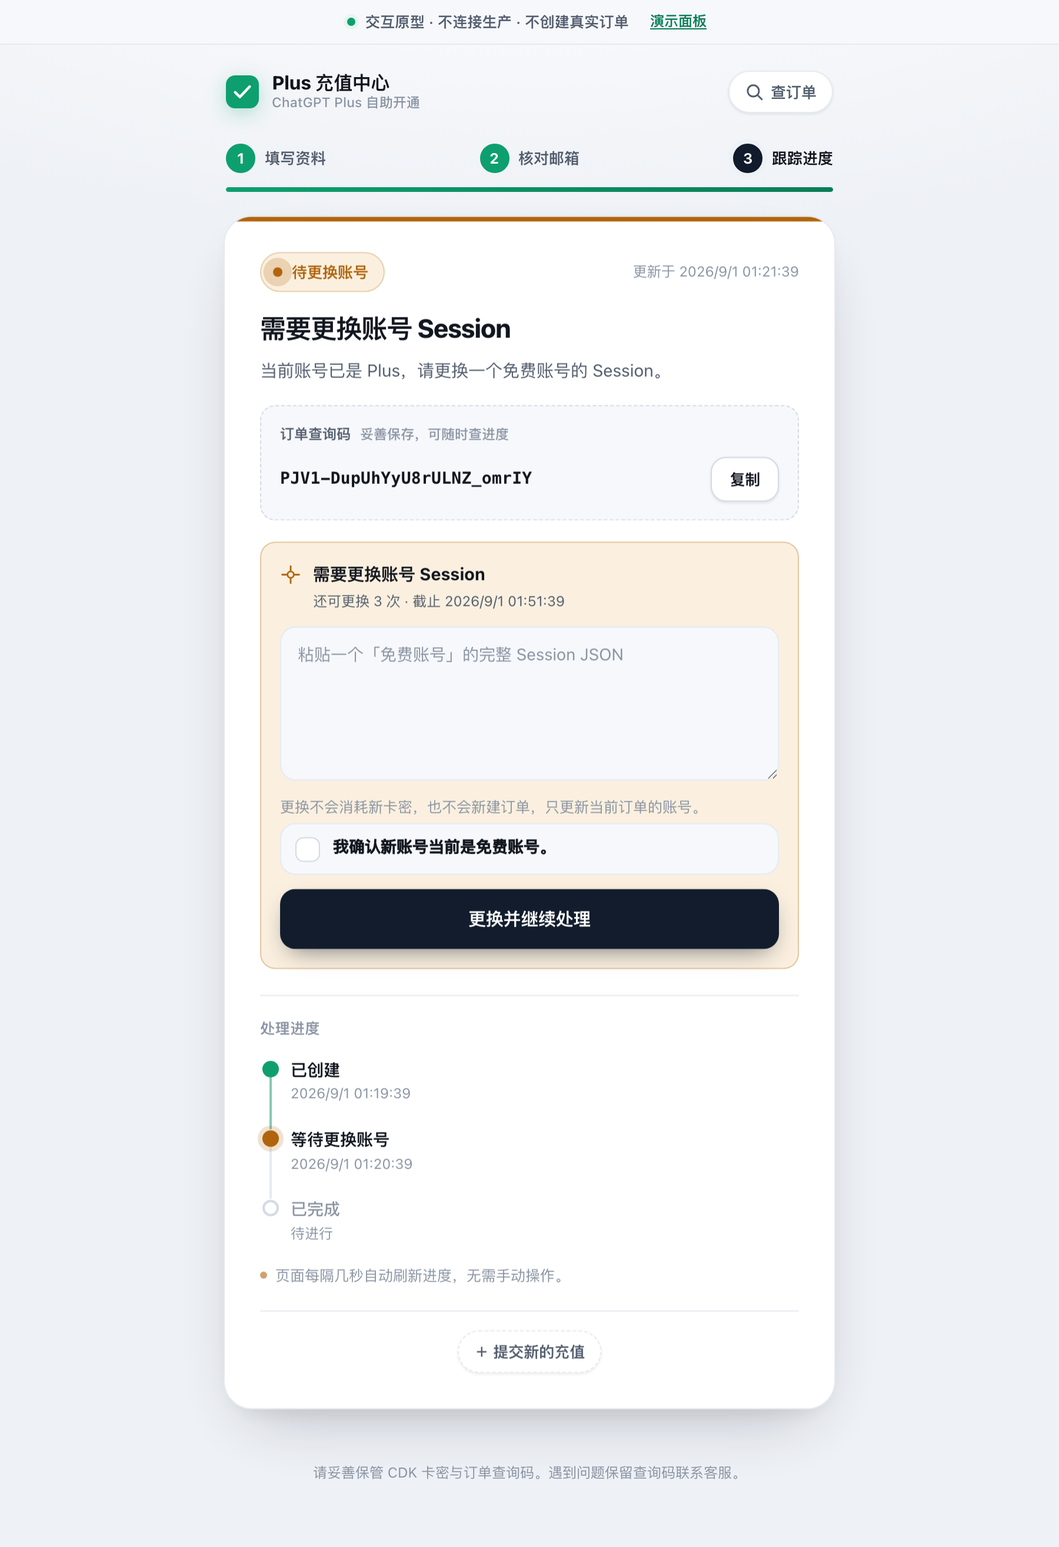
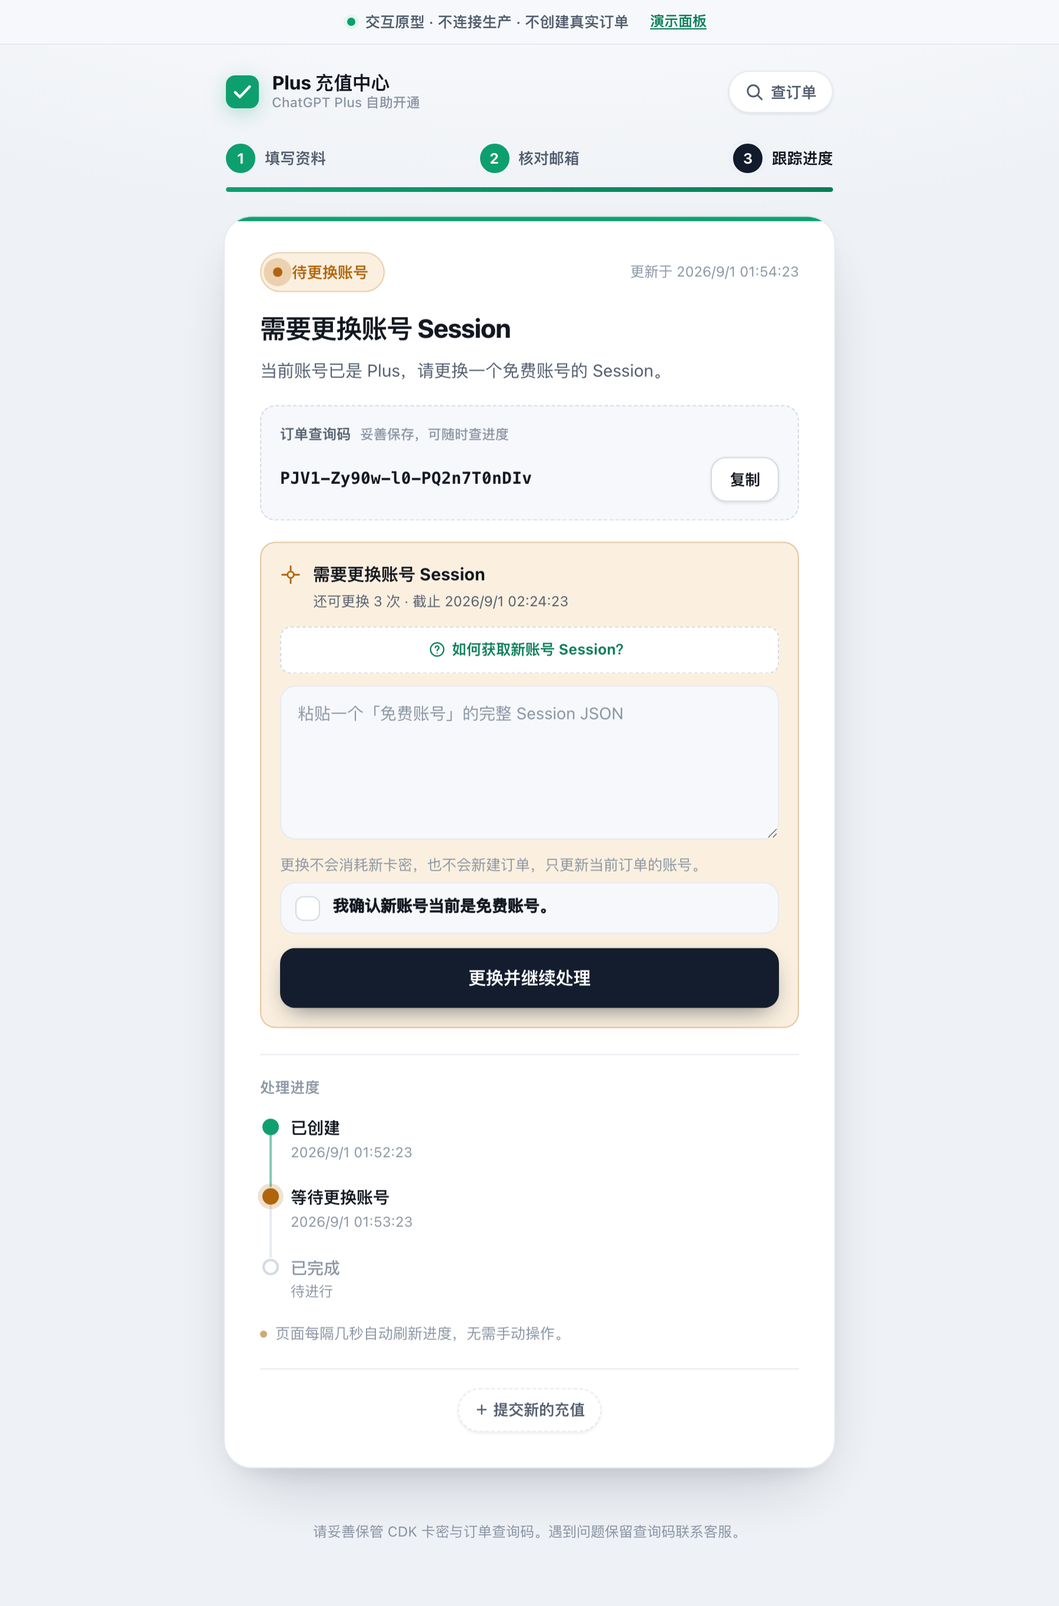
docs: add session howto guide and subscription-check link to recharge redesign
按拍板结论增补客户充值页设计（仍不接后端、不接生产）：
- 新增 Session 获取教程弹层：输入页/更换处「如何获取 Session？」入口，含分步引导 + 两个官方外链（chatgpt.com、chatgpt.com/api/auth/session）+ 脱敏示例 + 安全提示
- 成功页新增「去 ChatGPT 官网确认订阅」轻量外链；否定自建订阅查询后端
- 落定拍板：邮箱不打码/卡密打码、先 Light 保留 Dark、不加 preview 接口、保留新充值入口、轮询落地改回生产值
- 同步 README/DECISIONS/HANDOFF 与桌面/移动截图（新增 08-guide，共 18 张）
- 外链均为 ChatGPT 官方域名，带 target=_blank rel=noopener noreferrer

diff --git a/docs/design/customer-recharge-redesign/prototype/index.html b/docs/design/customer-recharge-redesign/prototype/index.html
@@ -72,12 +72,15 @@
             <div class="field" id="field-session">
               <div class="field__labelrow">
                 <label for="session">账号 Session</label>
-                <span class="field__tag">仅本次开通使用</span>
+                <button type="button" class="help-link" id="session-help-open">
+                  <svg viewBox="0 0 20 20" width="15" height="15" aria-hidden="true"><circle cx="10" cy="10" r="7.5" fill="none" stroke="currentColor" stroke-width="1.5"/><path d="M8 8a2 2 0 113 1.7c-.6.4-1 .8-1 1.6" fill="none" stroke="currentColor" stroke-width="1.5" stroke-linecap="round"/><circle cx="10" cy="14" r=".7" fill="currentColor"/></svg>
+                  如何获取 Session？
+                </button>
               </div>
               <textarea id="session" name="session" rows="7" autocomplete="off"
                         autocapitalize="off" spellcheck="false"
                         placeholder="粘贴完整的 Session JSON（{ &quot;user&quot;: …, &quot;accessToken&quot;: … }）" required></textarea>
-              <p class="field__hint">整段粘贴即可。系统只从中读取你的账号邮箱用于核对，创建订单后输入框会清空。</p>
+              <p class="field__hint">仅用于本次开通。整段粘贴即可，系统只读取账号邮箱用于核对，创建订单后自动清空。不会读取 Session？点右上「如何获取 Session？」。</p>
               <p class="field__error" data-error></p>
             </div>
 
@@ -157,6 +160,13 @@
             <div class="success-summary__row"><span>充值账号</span><strong id="success-email">—</strong></div>
             <div class="success-summary__row"><span>完成时间</span><strong id="success-time">—</strong></div>
           </div>
+          <a class="sub-link" id="subscription-link" href="https://chatgpt.com/" target="_blank" rel="noopener noreferrer" hidden>
+            <span class="sub-link__main">
+              <svg viewBox="0 0 20 20" width="16" height="16" aria-hidden="true"><path d="M10 2l6 2.4v4.5c0 3.7-2.5 6.6-6 7.9-3.5-1.3-6-4.2-6-7.9V4.4L10 2z" fill="none" stroke="currentColor" stroke-width="1.5" stroke-linejoin="round"/><path d="M7.5 10l1.8 1.8L13 8" fill="none" stroke="currentColor" stroke-width="1.5" stroke-linecap="round" stroke-linejoin="round"/></svg>
+              去 ChatGPT 官网确认订阅状态
+            </span>
+            <span class="sub-link__hint">登录后在「设置 → 订阅」查看，本页不经手你的账号订阅信息 ↗</span>
+          </a>
 
           <!-- 查询码 -->
           <div class="ticket" id="ticket">
@@ -176,6 +186,10 @@
                 <small id="replace-limit"></small>
               </div>
             </div>
+            <button type="button" class="help-link help-link--block" id="replace-help-open">
+              <svg viewBox="0 0 20 20" width="15" height="15" aria-hidden="true"><circle cx="10" cy="10" r="7.5" fill="none" stroke="currentColor" stroke-width="1.5"/><path d="M8 8a2 2 0 113 1.7c-.6.4-1 .8-1 1.6" fill="none" stroke="currentColor" stroke-width="1.5" stroke-linecap="round"/><circle cx="10" cy="14" r=".7" fill="currentColor"/></svg>
+              如何获取新账号 Session？
+            </button>
             <textarea id="replace-session" rows="5" autocomplete="off" autocapitalize="off" spellcheck="false" placeholder="粘贴一个「免费账号」的完整 Session JSON"></textarea>
             <p class="field__hint">更换不会消耗新卡密，也不会新建订单，只更新当前订单的账号。</p>
             <label class="checkbox checkbox--sm">
@@ -277,6 +291,36 @@
       </div>
     </div>
   </aside>
+
+  <!-- ============ Session 获取教程弹层 ============ -->
+  <dialog class="guide" id="session-guide" aria-labelledby="guide-title">
+    <div class="guide__head">
+      <div>
+        <p class="guide__eyebrow">跟着做 · 约 1 分钟</p>
+        <h2 id="guide-title">如何获取账号 Session</h2>
+      </div>
+      <button type="button" class="guide__close" id="guide-close" aria-label="关闭教程">✕</button>
+    </div>
+    <p class="guide__intro">在浏览器登录要充值的 ChatGPT 账号，打开官方 Token 页面，把整段内容复制粘贴回来即可。两个按钮直达官方页面：</p>
+    <div class="guide__actions">
+      <a class="btn btn--ghost guide__link" href="https://chatgpt.com/" target="_blank" rel="noopener noreferrer">① 先登录 ChatGPT ↗</a>
+      <a class="btn btn--ghost guide__link" href="https://chatgpt.com/api/auth/session" target="_blank" rel="noopener noreferrer">② 打开 Token 页面 ↗</a>
+    </div>
+    <ol class="guide__steps">
+      <li><span class="guide__num">1</span><div><strong>登录要充值的账号</strong><p>点「先登录 ChatGPT」，确认浏览器当前登录的就是本次要开通 Plus 的账号。</p></div></li>
+      <li><span class="guide__num">2</span><div><strong>打开 Token 页面</strong><p>点「打开 Token 页面」，浏览器会显示一段 JSON 文本（<code>chatgpt.com/api/auth/session</code>）。</p></div></li>
+      <li><span class="guide__num">3</span><div><strong>全选复制</strong><p>Windows 按 <kbd>Ctrl</kbd>+<kbd>A</kbd> 再 <kbd>Ctrl</kbd>+<kbd>C</kbd>；Mac 按 <kbd>⌘</kbd>+<kbd>A</kbd> 再 <kbd>⌘</kbd>+<kbd>C</kbd>，复制整段 JSON。</p></div></li>
+      <li><span class="guide__num">4</span><div><strong>粘贴回本页</strong><p>回到充值页，把完整 JSON 粘进「账号 Session」输入框，点「下一步」核对邮箱。</p></div></li>
+    </ol>
+    <div class="guide__sample">
+      <div class="guide__sample-label">正确页面示例（应包含 email、accessToken）</div>
+      <code>{"user":{"id":"user-…","email":"you@example.com"},"accessToken":"eyJhb…","expires":"…"}</code>
+    </div>
+    <p class="guide__warn"><svg viewBox="0 0 20 20" width="16" height="16" aria-hidden="true"><path d="M10 2.5l7.5 13H2.5L10 2.5z" fill="none" stroke="currentColor" stroke-width="1.5" stroke-linejoin="round"/><path d="M10 8v3.2M10 13.6v.4" stroke="currentColor" stroke-width="1.6" stroke-linecap="round"/></svg>Token 包含账号登录权限，请勿转发给他人；充值完成后建议退出 ChatGPT 再重新登录一次。</p>
+    <div class="guide__foot">
+      <button type="button" class="btn btn--primary" id="guide-done">我知道了，去粘贴</button>
+    </div>
+  </dialog>
 
   <noscript><p style="padding:24px;text-align:center">需要启用 JavaScript 才能使用本页面。</p></noscript>
 

diff --git a/docs/design/customer-recharge-redesign/prototype/styles.css b/docs/design/customer-recharge-redesign/prototype/styles.css
@@ -437,6 +437,59 @@ body {
 .view { animation: view-in .38s cubic-bezier(.22,.7,.3,1) both; }
 @keyframes view-in { from { opacity: 0; transform: translateY(10px); } to { opacity: 1; transform: none; } }
 
+/* ---------- 「如何获取 Session」入口 ---------- */
+.help-link { display: inline-flex; align-items: center; gap: 5px; font: inherit; font-size: 12.5px; font-weight: 680;
+  color: var(--brand-ink); background: none; border: none; cursor: pointer; padding: 2px; border-radius: var(--r-sm); }
+.help-link svg { flex: 0 0 auto; }
+.help-link:hover { text-decoration: underline; text-underline-offset: 2px; }
+.help-link--block { width: 100%; justify-content: center; margin: 0 0 10px; padding: 9px 12px;
+  background: var(--surface); border: 1px dashed var(--line-strong); border-radius: var(--r-sm); }
+.help-link--block:hover { background: var(--surface-3); text-decoration: none; }
+
+/* ---------- 成功页：去官网确认订阅 ---------- */
+.sub-link { display: flex; flex-direction: column; gap: 3px; margin: 14px 0 0; padding: 13px 16px; text-decoration: none;
+  border: 1px solid var(--line); border-radius: var(--r-md); background: var(--surface-2); transition: border-color .15s, background .15s; }
+.sub-link:hover { border-color: var(--brand); background: var(--brand-soft); }
+.sub-link__main { display: flex; align-items: center; gap: 8px; font-size: 14px; font-weight: 680; color: var(--ink); }
+.sub-link__main svg { color: var(--brand-ink); flex: 0 0 auto; }
+.sub-link__hint { font-size: 12px; color: var(--ink-3); padding-left: 24px; line-height: 1.45; }
+
+/* ---------- Session 获取教程弹层 ---------- */
+.guide { width: min(520px, calc(100vw - 28px)); max-height: 88vh; overflow-y: auto; padding: 22px;
+  border: 1px solid var(--line); border-radius: var(--r-xl); background: var(--surface); color: var(--ink); box-shadow: var(--shadow-lg); }
+.guide::backdrop { background: rgba(10,14,20,.5); }
+:root[data-theme="dark"] .guide::backdrop, :root:not([data-theme="light"]) .guide::backdrop { background: rgba(0,0,0,.6); }
+.guide[open] { animation: guide-in .28s cubic-bezier(.2,.7,.3,1); }
+@keyframes guide-in { from { opacity: 0; transform: translateY(12px) scale(.985); } to { opacity: 1; transform: none; } }
+.guide__head { display: flex; align-items: flex-start; justify-content: space-between; gap: 12px; margin-bottom: 12px; }
+.guide__eyebrow { margin: 0 0 3px; font-size: 11.5px; font-weight: 700; color: var(--brand-ink); letter-spacing: .03em; }
+.guide__head h2 { margin: 0; font-size: 19px; font-weight: 760; letter-spacing: -.01em; }
+.guide__close { flex: 0 0 auto; width: 32px; height: 32px; border-radius: 50%; border: 1px solid var(--line);
+  background: var(--surface-2); color: var(--ink-2); font-size: 14px; cursor: pointer; line-height: 1; }
+.guide__close:hover { background: var(--surface-3); color: var(--ink); }
+.guide__intro { margin: 0 0 14px; font-size: 13.5px; color: var(--ink-2); line-height: 1.55; }
+.guide__actions { display: grid; grid-template-columns: 1fr 1fr; gap: 10px; margin-bottom: 18px; }
+.guide__link { font-size: 13.5px; padding: 11px 12px; text-decoration: none; }
+.guide__steps { list-style: none; margin: 0 0 16px; padding: 0; display: grid; gap: 14px; }
+.guide__steps li { display: flex; gap: 12px; }
+.guide__num { flex: 0 0 auto; width: 24px; height: 24px; border-radius: 50%; background: var(--accent-ink); color: var(--surface);
+  display: grid; place-items: center; font-size: 12.5px; font-weight: 700; }
+:root[data-theme="dark"] .guide__num, :root:not([data-theme="light"]) .guide__num { color: #0b0e14; }
+.guide__steps strong { display: block; font-size: 14px; font-weight: 680; margin-bottom: 2px; }
+.guide__steps p { margin: 0; font-size: 13px; color: var(--ink-2); line-height: 1.5; }
+.guide__steps code { font-family: var(--mono); font-size: 12px; background: var(--surface-3); padding: 1px 5px; border-radius: 5px; word-break: break-all; }
+.guide kbd { font-family: var(--mono); font-size: 11.5px; background: var(--surface-3); border: 1px solid var(--line-strong);
+  border-radius: 5px; padding: 1px 5px; }
+.guide__sample { background: var(--surface-2); border: 1px solid var(--line); border-radius: var(--r-md); padding: 12px 14px; margin-bottom: 14px; }
+.guide__sample-label { font-size: 12px; font-weight: 650; color: var(--ink-3); margin-bottom: 7px; }
+.guide__sample code { display: block; font-family: var(--mono); font-size: 11.5px; color: var(--ink-2); line-height: 1.5; word-break: break-all; }
+.guide__warn { display: flex; gap: 8px; align-items: flex-start; margin: 0 0 16px; padding: 11px 13px; font-size: 12.5px; line-height: 1.5;
+  color: var(--warn); background: var(--warn-soft); border: 1px solid color-mix(in srgb, var(--warn) 26%, transparent); border-radius: var(--r-md); }
+.guide__warn svg { flex: 0 0 auto; margin-top: 1px; }
+.guide__foot { display: flex; justify-content: flex-end; }
+.guide__foot .btn { min-width: 148px; }
+@media (max-width: 480px) { .guide__actions { grid-template-columns: 1fr; } .guide { padding: 18px; } }
+
 /* ---------- 演示面板 ---------- */
 .demo { position: fixed; right: 16px; bottom: 16px; z-index: 60; width: min(300px, calc(100vw - 32px));
   background: var(--surface); border: 1px solid var(--line-strong); border-radius: var(--r-lg);

diff --git a/docs/design/customer-recharge-redesign/prototype/app.js b/docs/design/customer-recharge-redesign/prototype/app.js
@@ -77,6 +77,9 @@
     timeline: $('timeline'), pollNote: $('poll-note'), trackingNew: $('tracking-new'),
     queryForm: $('query-form'), queryInput: $('query-input'), querySubmit: $('query-submit'), queryBack: $('query-back'),
     navQuery: $('nav-query'), toast: $('toast'),
+    guideOpen: $('session-help-open'), replaceHelpOpen: $('replace-help-open'),
+    guide: $('session-guide'), guideClose: $('guide-close'), guideDone: $('guide-done'),
+    subLink: $('subscription-link'),
     demo: $('demo'), demoOpen: $('demo-open'), demoClose: $('demo-close')
   };
 
@@ -217,6 +220,7 @@
     // 成功
     el.crest.hidden = !success;
     el.successSummary.hidden = !success;
+    el.subLink.hidden = !success;
     el.statusCard.classList.toggle('is-success', success && successShownFor !== order.publicNo);
     if (success) {
       el.successEmail.textContent = order.customerEmail || '—';
@@ -379,6 +383,15 @@
     } catch { toast('复制失败，请手动选中查询码。'); }
   });
 
+  // ---------------- Session 获取教程弹层 ----------------
+  function openGuide() { if (el.guide && typeof el.guide.showModal === 'function') el.guide.showModal(); }
+  function closeGuide() { el.guide?.close?.(); }
+  el.guideOpen?.addEventListener('click', openGuide);
+  el.replaceHelpOpen?.addEventListener('click', openGuide);
+  el.guideClose?.addEventListener('click', closeGuide);
+  el.guideDone?.addEventListener('click', closeGuide);
+  el.guide?.addEventListener('click', (e) => { if (e.target === el.guide) closeGuide(); }); // 点背景关闭
+
   // ---------------- 主题 + 演示面板（仅原型） ----------------
   function setTheme(t) { document.documentElement.setAttribute('data-theme', t); }
   const SAMPLE_SESSION = JSON.stringify({
@@ -435,6 +448,8 @@
     confirm: demoConfirm,
     autoplay: demoAutoplay,
     theme: setTheme,
+    guide: openGuide,
+    closeGuide: closeGuide,
     closeDemo: () => { el.demo.hidden = true; }
   };
 

diff --git a/docs/design/customer-recharge-redesign/README.md b/docs/design/customer-recharge-redesign/README.md
@@ -119,9 +119,10 @@
 | 3 | **处理中** | tracking / PROCESSING | 蓝色主题条 + 脉冲状态点；时间线含已完成（绿）/当前（脉冲）/未来（灰·待进行）；「每隔几秒自动刷新」 | `*-03-processing` |
 | 4 | **需更换 Session** | tracking / ACTION_REQUIRED | 琥珀主题；就地展开更换表单（复用 `POST /orders/session`）；显示「还可更换 N 次 · 截止时间」；desc 直接用后端 `actionRequired.message` | `*-05-action-required` |
 | 5 | **失败** | tracking / FAILED | 柔和红主题；helpbox 说明「已转人工核对，保留查询码」；不暴露任何技术原因；时间线收尾 | `*-06-failed` |
-| 6 | **成功** | tracking / SUCCESS | 就地打勾勋章（一次性描边动画）；成功摘要（充值账号 + 完成时间）；查询码；完整时间线；**不弹窗** | `*-04-success`（含 `-dark`） |
+| 6 | **成功** | tracking / SUCCESS | 就地打勾勋章（一次性描边动画）；成功摘要（充值账号 + 完成时间）；成功摘要下方附「去 ChatGPT 官网确认订阅」官方外链；查询码；完整时间线；**不弹窗** | `*-04-success`（含 `-dark`） |
 | 7 | **订单查询** | query | 单输入（查询码或 CDK）；`PJV1-` 前缀自动判定走 publicNo，否则走 cdk；查到后并入状态卡 | `*-07-query` |
 | 8 | **复核中** | tracking / REVIEWING | 中性灰主题；「订单正在复核」；`SUBMIT_UNKNOWN` 等内部不确定态的统一客户表达 | （复用状态卡，演示面板可切） |
+| 9 | **Session 获取教程** | 弹层（覆盖任意视图） | 输入页与更换处「如何获取 Session？」入口触发；分步引导 + 两个官方外链（登录、Token 页面）+ 脱敏 JSON 示例 + 安全提示 | `*-08-guide` |
 
 各状态共用同一张 `.status-card`，通过 `data-status` 切换主题色（顶部条、状态胶囊、时间线当前节点），保证「同一个地方看进度」的连续感。
 
@@ -222,5 +223,25 @@ customer-recharge-redesign/
 │   ├── app.js         视图状态机 + 客户契约消费（含「确认前零请求」保证）
 │   ├── mock-api.js    内存假后端（严格对齐真实客户契约；生产替换为 fetch）
 │   └── capture.mjs    可选：Playwright 截图脚本（非运行时）
-└── screenshots/       桌面/移动 × 各状态（含深色成功）
+└── screenshots/       桌面/移动 × 8 状态 + 2 张深色成功（共 18 张）
 ```
+
+---
+
+## 9. 增补：Session 获取教程与订阅确认（2026-09-01）
+
+### 9.1 Session 获取教程
+
+获取 Session 是客户完成充值的最大障碍，现有页面对此零引导。本次新增图文教程，直接服务「减少理解成本」：
+
+- **入口**：输入页「账号 Session」标签右侧，以及更换 Session 表单内，各一个「如何获取 Session？」。不占首屏。
+- **形态**：原生 `<dialog>` 模态弹层，可 ESC / 点背景 / 「我知道了」关闭，无障碍友好。
+- **内容**：一句话说明 + 两个官方直达按钮（`https://chatgpt.com/` 登录、`https://chatgpt.com/api/auth/session` 打开 Token 页面）+ 4 步图文（登录 → 打开 Token 页 → 全选复制 → 粘贴）+ 脱敏 JSON 示例 + 安全提示（Token 含账号权限，勿转发）。
+- **边界**：纯前端静态内容，不新增任何后端；外链 `target="_blank" rel="noopener noreferrer"`，全部指向 chatgpt.com 官方域名。若运营有独立帮助中心，可把外链改为站内地址。
+
+### 9.2 订阅确认（轻量版）
+
+- **位置**：仅成功状态，成功摘要下方一个「去 ChatGPT 官网确认订阅状态」外链，跳官方设置页。
+- **理由**：满足客户「我的号真的变 Plus 了吗」的确认需求，同时零后端、不碰 session、不违反「客户侧不做资金 / 退款查询」边界（订阅状态由官方展示，我们不经手）。
+- **明确否定**自建订阅查询后端（DECISIONS C11）：会动后端、扩大敏感数据面、有稳定性 / 封号风险；经核查，同类参考站的「订阅查询」本身也只是一个跳转 `chatgpt.com` 的外链，并无自建查询能力。
+- **放成功页而非首屏**：避免与「订单查询」混淆——订单查询 = 查我们的充值进度；订阅确认 = 去官网看账号状态，两回事。

diff --git a/docs/design/customer-recharge-redesign/DECISIONS.md b/docs/design/customer-recharge-redesign/DECISIONS.md
@@ -5,6 +5,21 @@
 
 ---
 
+## 本轮拍板与增补（2026-09-01）
+
+用户已确认按以下建议推进，并新增 Session 教程与订阅确认入口（均已做进原型，纯前端、不碰后端）：
+
+- **邮箱不打码、卡密打码**：确认页完整展示邮箱（核对优先），卡密前 4 + 后 2 打码。（B1 / B8 → 定）
+- **先只上 Light，保留 Dark**：Dark 代码保留、默认关闭，想开随时开。（B2 → 定）
+- **不新增确认前 preview 接口**：前端本地解析邮箱已够；有效性由创建接口判定。（B3 → 定）
+- **FAILED 客户结果码**：认可价值，但需后端配合，排到本次之后。（B4 → 延后）
+- **轮询节奏落地改回生产值**：属落地清单，见 HANDOFF §3。（B6 → 定）
+- **保留「提交新的充值」入口**：受 CDK 一次性保护，不会重复扣款。（B7 → 定）
+- **新增 ① Session 获取教程弹层**：输入页与更换 Session 处均有「如何获取 Session？」入口；弹层含 4 步引导 + 两个官方外链（`chatgpt.com`、`chatgpt.com/api/auth/session`）+ 脱敏 JSON 示例 + 安全提示。参考同类站 lmfai666.com 的做法，但收敛为不占首屏的弹层。
+- **新增 ② 订阅确认（轻量版）**：成功状态加「去 ChatGPT 官网确认订阅状态」外链，跳官方设置页，本页不经手订阅信息。**否定**自建订阅查询后端（见 C11）——经核查该参考站的「订阅查询」本身也只是跳转 `chatgpt.com` 的外链。
+
+---
+
 ## A. 已确认（源于用户明确指令或项目硬约束，无需再议）
 
 | # | 决策 | 依据 | 证据 |
@@ -54,6 +69,7 @@
 | C8 | 客户侧退款 / 交易查询入口 | 硬约束：退款、交易、余额仅内部后台处理，客户侧不提供 |
 | C9 | 引入外部字体 / UI 框架 / CDN 资源 | 支付类页面重信任与加载稳定性；坚持零外部依赖，且现有 helmet/CSP 环境更安全 |
 | C10 | 把 Session 明文暂存到 `localStorage` 以便「返回修改」保留 | 泄露风险；改为仅在内存 `pending` 暂存，离开即弃，查询码才入 `sessionStorage` |
+| C11 | 自建「订阅查询」后端（用 session 调 ChatGPT 官方订阅接口查订阅状态） | 要动后端、扩大敏感数据面、有稳定性/封号风险，收益不匹配；参考站自身的「订阅查询」也只是跳转官网外链。改为成功页官方外链的轻量版 |
 
 ---
 

diff --git a/docs/design/customer-recharge-redesign/HANDOFF.md b/docs/design/customer-recharge-redesign/HANDOFF.md
@@ -114,6 +114,12 @@ const api = {
 - `mock-api.js`、`capture.mjs` 整个文件不落地。
 - favicon 改回现有 `/assets/favicon.svg`（原型用内联 data-uri 便于独立运行）。
 
+### 落地保留（是生产功能，不是演示件，别误删）
+
+- **Session 获取教程弹层**：`#session-guide` dialog、`.help-link` 入口（`#session-help-open` / `#replace-help-open`）、`openGuide/closeGuide` 及其事件绑定——全部保留。仅 `window.__proto.guide/closeGuide` 这两个钩子随 `__proto` 一起移除。
+- **成功页订阅外链**：`#subscription-link` 及 `renderStatus` 里 `el.subLink.hidden = !success`——保留。
+- 教程与订阅外链均指向 ChatGPT 官方域名（`chatgpt.com`、`chatgpt.com/api/auth/session`），带 `target="_blank" rel="noopener noreferrer"`；不涉及任何后端接口。若运营有独立帮助中心 / 教程页，可把外链改为站内地址。
+
 ### 落地时必须调整
 
 - 资源引用路径改为 `/assets/customer.css?v=6` / `/assets/customer.js?v=6`（**bump 版本号**避免缓存旧文件；现网是 `?v=5`）。
